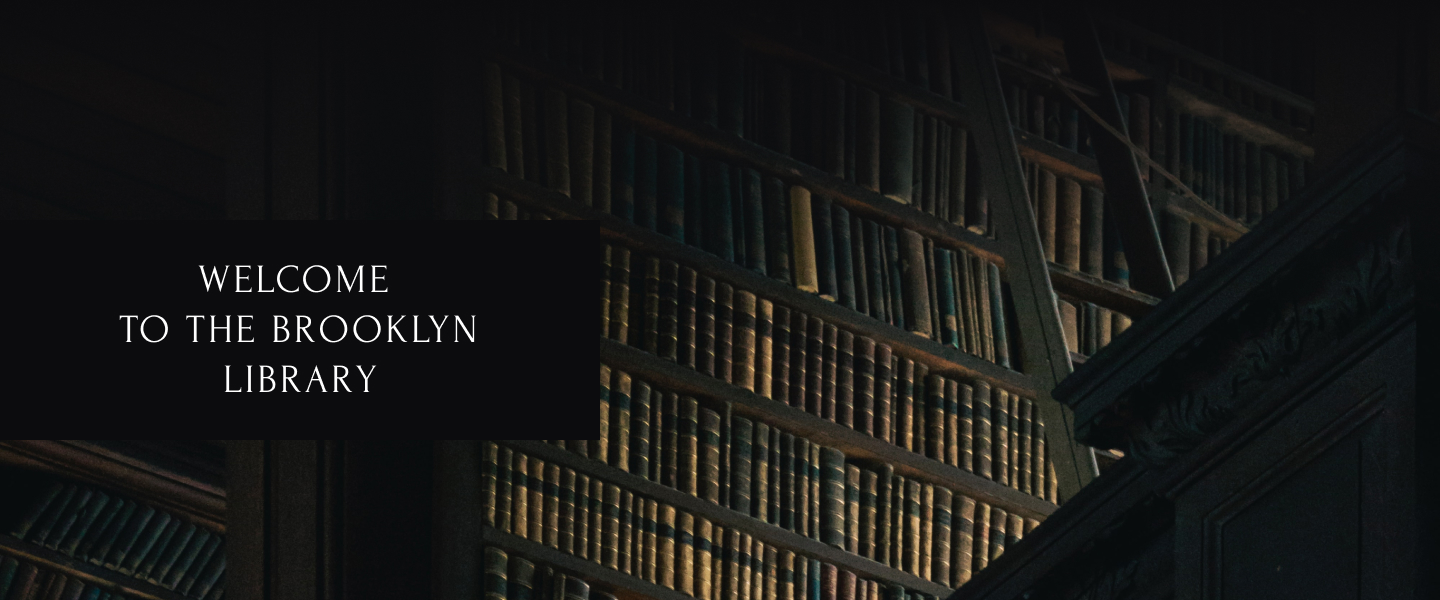
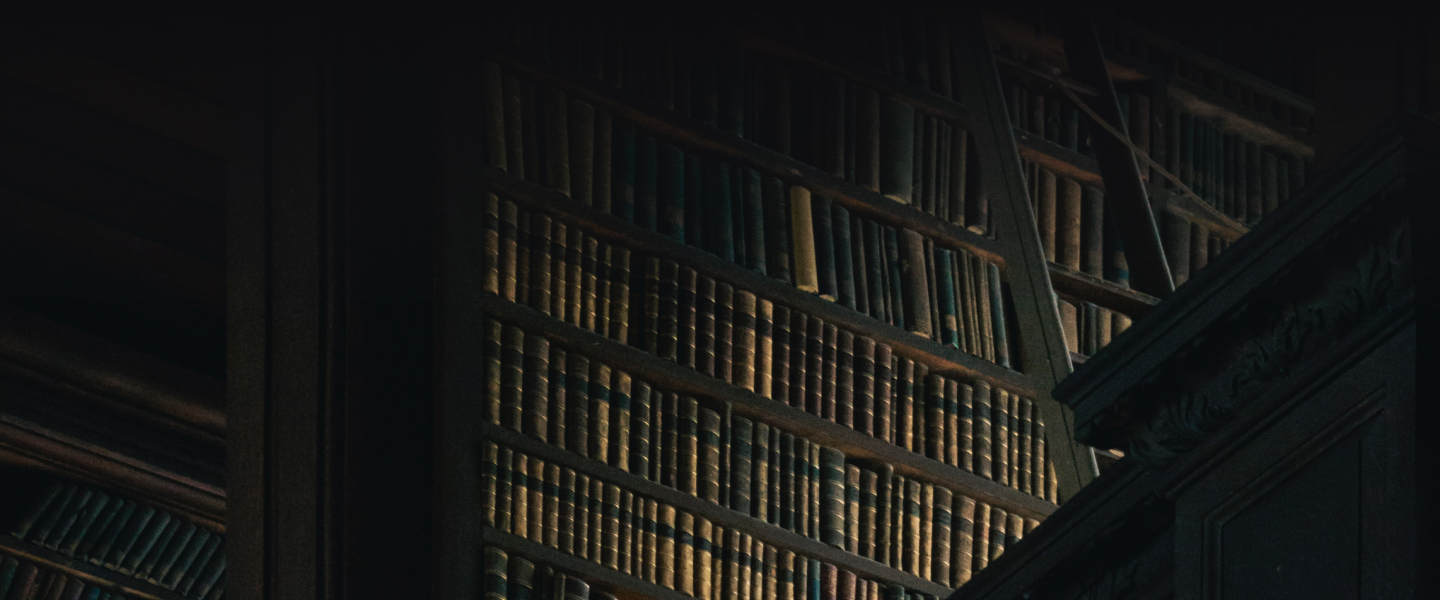
feat: add 2 sections

diff --git a/library/styles/styles.css b/library/styles/styles.css
@@ -9,11 +9,186 @@
   box-sizing: border-box;
 }
 
+
+
 body {
-  font-family: "Forum", sans-serif;
+  width: 100%;
+  max-width: 1440px;
+  margin: 0 auto;
+  font-family: "Forum", serif;
+}
+
+.header {
+  background-color: #0C0C0E;
+  color: #FFFFFF;
+  padding: 20px;
+}
+.wrapper {
+  width: 100%;
+  max-width: 1400px;
+  margin: 0 auto;
+  display: flex;
+  align-items: center;
+}
+.header__wrapper {
+  justify-content: space-between;
+}
+.header__title {
+  color: #FFF;
+  font-family: "Forum", serif;
+  font-size: 30px;
+  font-style: normal;
+  font-weight: 400;
+  line-height: 50px;
+  letter-spacing: 0.6px;
+}
+.header__nav {
+  margin-left: auto;
+}
+.header__list {
+  font-family: "Inter", sans-serif;
   font-size: 20px;
   font-style: normal;
   font-weight: 400;
   line-height: 50px;
-  background: #000;
+  display: flex;
+  gap: 30px;
+}
+.header__item {
+}
+.header__link {
+  display: block;
+}
+.header__profile {
+  display: flex;
+  justify-content: center;
+  align-items: center;
+  margin-left: 40px;
+}
+
+.main {
+  display: flex;
+  flex-direction: column;
+}
+.welcome {
+  width: 100%;
+  height: 600px;
+  background-image: url("../assets/img/welcome.jpg");
+  background-position: center;
+  background-repeat: no-repeat;
+  background-size: contain;
+}
+.title-wrapper {
+  margin-top: 220px;
+  width: 100%;
+  max-width: 600px;
+  height: 220px;
+  background-color: #0C0C0E;
+  padding: 35px 40px;
+
+}
+
+.welcome__title {
+  color: #FFF;
+  text-align: center;
+  font-size: 40px;
+  font-style: normal;
+  font-weight: 400;
+  line-height: 50px;
+  letter-spacing: 3px;
+  text-transform: uppercase;
+}
+
+.about {
+}
+.wrapper {
+}
+.about__wrapper {
+  flex-direction: column;
+  padding: 20px 0 40px;
+}
+
+.section-title {
+  position: relative;
+  padding-bottom: 20px;
+  color: #0C0C0E;
+  font-size: 40px;
+  font-style: normal;
+  font-weight: 400;
+  line-height: 40px;
+  letter-spacing: 2px;
+  text-transform: capitalize;
+}
+
+.section-title::after {
+  content: "";
+  position: absolute;
+  width: 50px;
+  height: 1px;
+  background-color: #0C0C0E;
+  bottom: -1px;
+  left: 29px;
+
+}
+
+.about__title {
+  margin-bottom: 40px;
+}
+
+.section-text {
+  color: #000;
+  text-align: center;
+  font-family: Inter;
+  font-size: 20px;
+  font-style: normal;
+  font-weight: 400;
+  line-height: 40px;
+  margin-bottom: 20px;
+}
+
+.carousel {
+  width: 100%;
+  display: flex;
+  flex-wrap: wrap;
+  gap: 25px;
+  margin-bottom: 35px;
+}
+.carousel__img-holder {
+  max-width: 450px;
+  max-height: 560px;
+}
+.carousel-img {
+  width: 100%;
+  height: 100%;
+}
+
+.pagination {
+  width: 80px;
+  height: 26px;
+  display: flex;
+}
+
+.pagination__item {
+  width: 26px;
+  height: 26px;
+  cursor: pointer; 
+  display: flex;
+  justify-content: center;
+  align-items: center;
+}
+
+.pagination__item:hover:not(:first-child) {
+  background-color: #a6a4a4;
+  border-radius: 5px;
+}
+
+.pagination__dot {
+  width: 16px;
+  height: 16px;
+  background-color: #000;
+  border-radius: 50%;
+}
+
+.pagination__dot--active {
+  background-color: #BB945F;
 }

diff --git a/library/index.html b/library/index.html
@@ -18,7 +18,7 @@
             <a href="#" class="header__link">About</a>
           </li>
           <li class="header__item">
-            <a href="#" class="header__link">Favourites</a>
+            <a href="#" class="header__link">Favorites</a>
           </li>
           <li class="header__item">
             <a href="#" class="header__link">Coffee shop</a>
@@ -31,16 +31,58 @@
           </li>
         </ul>
       </nav>
-      <div class="profile">
+      <div class="header__profile">
         <svg width="28" height="28">
           <use xlink:href="./assets/icons/icon_profile.svg#profile">
           </use>
         </svg>
       </div>
-
-
     </div>
   </header>
+
+  <main class="main">
+    <section class="welcome">
+      <div class="title-wrapper">
+        <h2 class="welcome__title">Welcome<br> to the Brooklyn Library</h2>
+      </div>
+    </section>
+
+    <section class="about">
+      <div class="wrapper about__wrapper">
+        <h2 class="section-title about__title">About</h2>
+        <p class="section-text">The Brooklyn Library is a free workspace, a large number of books and a cozy coffee shop inside</p>
+        <ul class="carousel">
+          <li class="carousel__img-holder">
+            <img class="carousel-img" src="./assets/img/about1.jpg" alt="A girl is looking for a book.">
+          </li>
+          <li class="carousel__img-holder">
+            <img class="carousel-img" src="./assets/img/about2.jpg" alt="A girl is looking for a book.">
+          </li>
+          <li class="carousel__img-holder">
+            <img class="carousel-img" src="./assets/img/about3.jpg" alt="A girl is looking for a book.">
+          </li>
+        </ul>
+        <ul class="pagination">
+          <li class="pagination__item ">
+            <div class="pagination__dot pagination__dot--active"></div>
+          </li>
+          <li class="pagination__item">
+            <div class="pagination__dot"></div>
+          </li>
+          <li class="pagination__item">
+            <div class="pagination__dot"></div>
+          </li>
+        </ul>
+      </div>
+    </section>
+
+    <section class="favorites">
+      <div class="wrapper favorites__wrapper">
+        <h2 class="section-title about__title">Favorites</h2>
+      </div>
+    </section>
+
+  </main>
   <script src="./scripts/index.js">
 
   </script>
